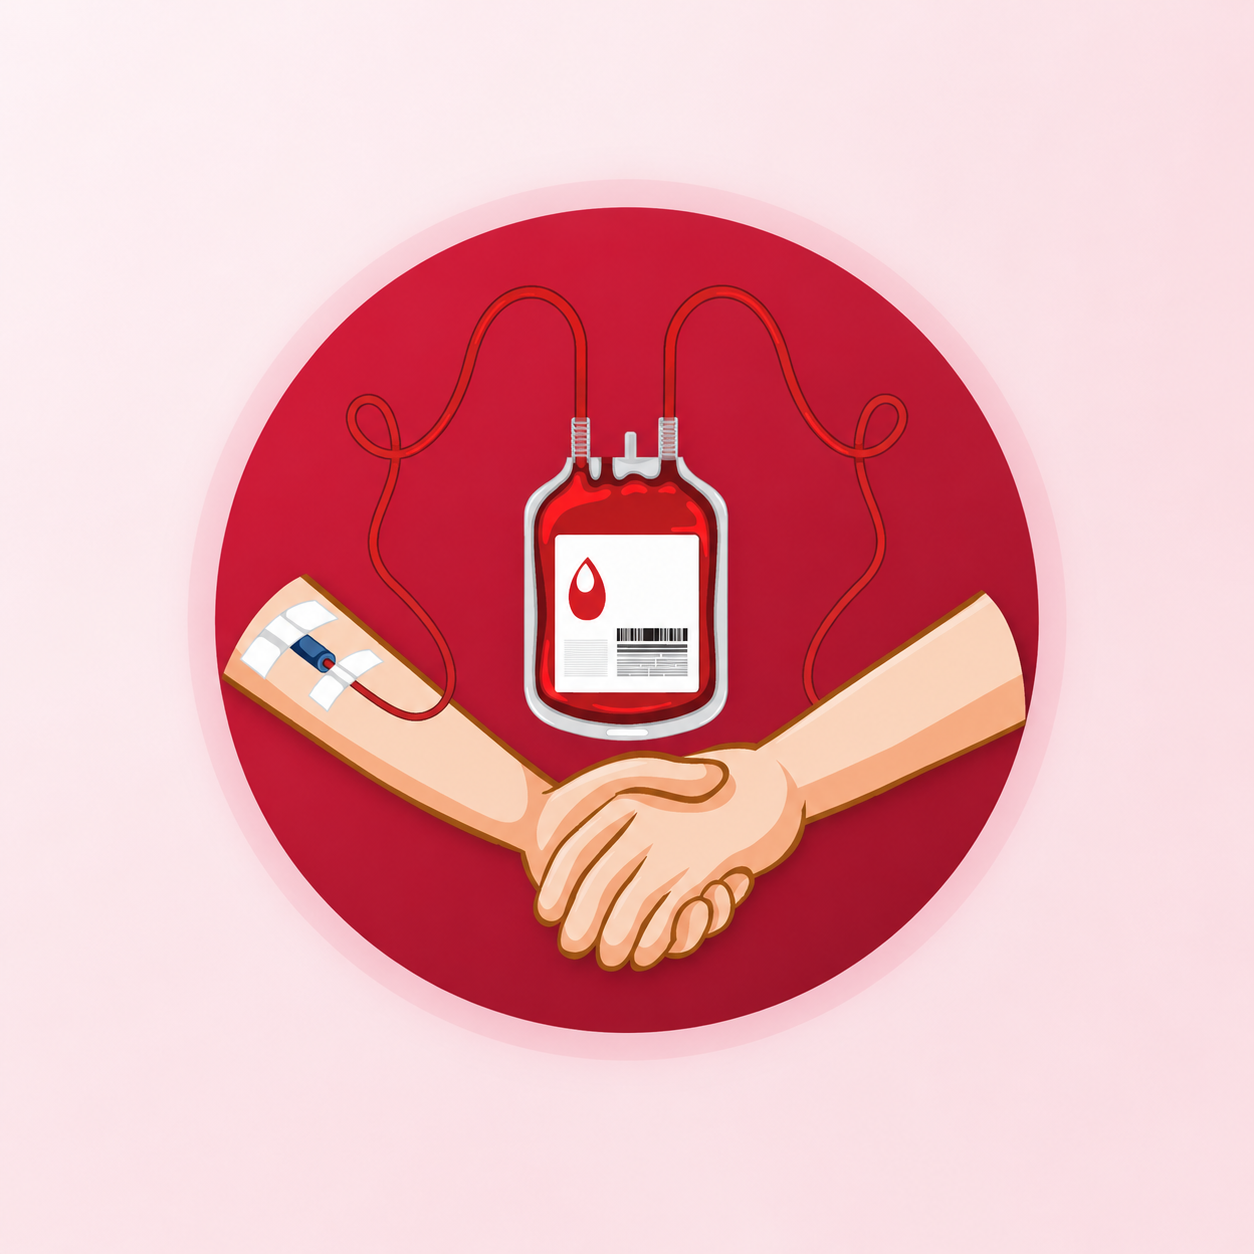
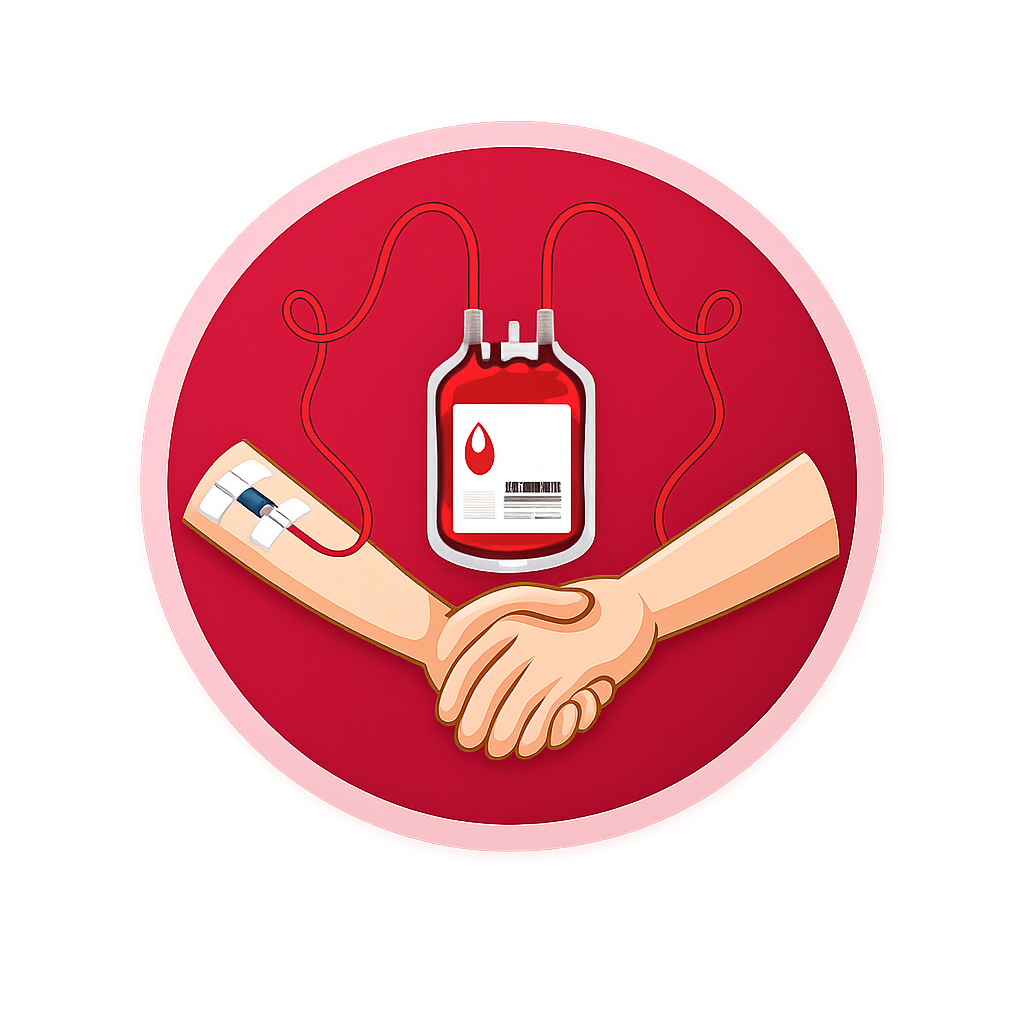
Feature Commit

diff --git a/LifeDrop/src/components/Hero.jsx b/LifeDrop/src/components/Hero.jsx
@@ -1,4 +1,40 @@
+// import { Link } from 'react-router-dom';
+
+// const Hero = () => {
+//   return (
+//     <section className="hero">
+//       <div className="hero-container">
+//         <div className="hero-content">
+//           <h1 className="hero-title">
+//             Donate Blood, <span className="hero-title-highlight">Save Lives</span>
+//           </h1>
+//           <p className="hero-subtitle">
+//             Join thousands of donors connecting with patients in need. Every drop counts,
+//             every donor matters.
+//           </p>
+//           <div className="hero-actions">
+//             <Link to="/register" className="btn btn-primary btn-lg">
+//               Become a Donor
+//             </Link>
+//             <Link to="/search-donor" className="btn btn-outline btn-lg">
+//               Find a Donor
+//             </Link>
+//           </div>
+//         </div>
+//         <div className="hero-image">
+//           <div className="hero-image-circle">
+//             <span className="hero-image-icon">🩸</span>
+//           </div>
+//         </div>
+//       </div>
+//     </section>
+//   );
+// };
+
+// export default Hero;
+
 import { Link } from 'react-router-dom';
+import bloodDonateImage from '../assets/BloodDonate.png';
 
 const Hero = () => {
   return (
@@ -23,7 +59,11 @@ const Hero = () => {
         </div>
         <div className="hero-image">
           <div className="hero-image-circle">
-            <span className="hero-image-icon">🩸</span>
+            <img
+              src={bloodDonateImage}
+              alt="Blood donation illustration"
+              className="hero-image-photo"
+            />
           </div>
         </div>
       </div>

diff --git a/LifeDrop/src/App.css b/LifeDrop/src/App.css
@@ -325,7 +325,7 @@ img {
 .hero {
   background: radial-gradient(circle at top right, var(--color-primary-soft) 0%, transparent 55%),
     linear-gradient(180deg, var(--color-white) 0%, var(--color-gray-50) 100%);
-  padding: 6rem 1.5rem 5rem;
+  padding: 3.5rem 1.5rem 3.5rem;
   position: relative;
   overflow: hidden;
 }
@@ -383,20 +383,20 @@ img {
 }
 
 .hero-image-circle {
-  width: 300px;
-  height: 300px;
+  width: 340px;
+  height: 340px;
   border-radius: 50%;
-  background: linear-gradient(135deg, var(--color-primary), var(--color-primary-darker));
   display: flex;
   align-items: center;
   justify-content: center;
-  box-shadow: var(--shadow-glow), 0 0 0 12px rgba(225, 29, 63, 0.08);
   animation: hero-float 4s ease-in-out infinite;
 }
 
-.hero-image-icon {
-  font-size: 7.5rem;
-  filter: drop-shadow(0 8px 16px rgba(0, 0, 0, 0.2));
+.hero-image-photo {
+  width: 100%;
+  height: 100%;
+  object-fit: contain;
+  filter: drop-shadow(0 8px 20px rgba(0, 0, 0, 0.15));
 }
 
 @keyframes hero-float {

diff --git a/LifeDrop/src/main.jsx b/LifeDrop/src/main.jsx
@@ -1,18 +1,3 @@
-// import { StrictMode } from 'react'
-// import { createRoot } from 'react-dom/client'
-// import './index.css'
-// import React from 'react';
-// import ReactDOM from 'react-dom/client';
-// import { BrowserRouter } from 'react-router-dom';
-// import App from './App.jsx'
-
-// createRoot(document.getElementById('root')).render(
-  
-//      <BrowserRouter>
-//     <App />
-//   </BrowserRouter>
-  
-// )
 import { StrictMode } from 'react';
 import { createRoot } from 'react-dom/client';
 import { BrowserRouter } from 'react-router-dom';
